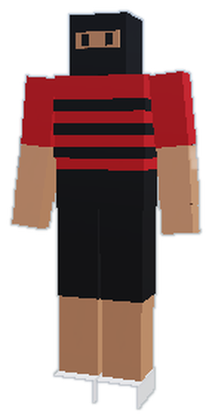
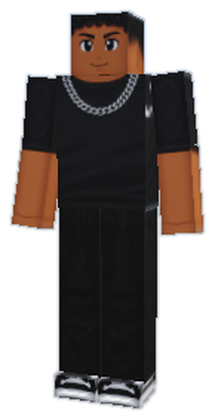
Escada com patamares e guarda-corpo, mapa mais leve, armas leves de longe e skin nova na roupa Rubro
- Escada externa em zigue-zague com patamar no fim de cada lance (o próximo sai dele) e
  guarda-corpo dos dois lados de cada lance e em volta de cada patamar, com colisão.
  Teste SO_ESCADA_EXTERNA: sobe até a laje e não cai empurrando para fora nas pontas.
- Armas: versão de longe por agrupamento de vértices (o simplificador antigo travava nas
  costuras e não reduzia); a da mão e as de perto continuam detalhadas
- Mapa: na beirada do morro só 35% das casas ficam (277 de 384); o resto do mapa não muda
- Grades das escadas só aparecem de perto (a colisão vale sempre)
- Medido no nível Leve, na partida: 425 mil -> 268 mil triângulos; malhas 114 -> 104 MB
  (menu 103 -> 91 MB, já contando as grades novas)
- Skin nova (cabelo cacheado, camiseta preta com corrente) na roupa Rubro, montada da folha
  enviada (tools/montar_skin.py + docs/skins/receitas/folha_roblox_rotulada.json)
- Versão 0.12

Claude-Session: https://claude.ai/code/session_012EZ5KKTFERXFdQTAkopxx1

diff --git a/src/procgen/Buildings.cpp b/src/procgen/Buildings.cpp
@@ -511,6 +511,64 @@ void railing(Geo& g, float x0, float z0, float x1, float z1, float y, float h) {
     g.collider({mn.x - 0.05f, y, mn.y - 0.05f}, {mx.x - mn.x + 0.1f, h, mx.y - mn.y + 0.1f});
 }
 
+// Guarda-corpo ao longo de um lance (na lateral x), acompanhando os degraus, com colisão em cada degrau
+static void stairsSideRail(Geo& g, float x, float zs, float dir, float run, float rise) {
+    DetailScope ds(g);  // a grade só aparece de perto (a colisão vale sempre)
+    MeshBuilder& m = g[Mat::GunMetal];
+    m.color = glm::vec4(1.f); m.uvTile = {0.f, 0.f};
+    const int n = std::max(4, int(rise / 0.18f + 0.5f));
+    const float H = 0.95f;
+    for (int i = 0; i < n; ++i) {
+        float za = zs + dir * run * i / n, zb = zs + dir * run * (i + 1) / n;
+        float y = rise * (i + 1) / n, lo = std::min(za, zb), hi = std::max(za, zb);
+        g.collider({x - 0.04f, y, lo}, {0.08f, H + 0.1f, hi - lo + 0.002f});
+        if (i % 3 == 0 || i == n - 1) m.box({x - 0.025f, y, (lo + hi) * 0.5f - 0.025f}, {0.05f, H, 0.05f});
+    }
+    // barra de cima inclinada
+    glm::vec3 a(x, rise / n + H, zs + dir * run * 0.5f / n), b(x, rise + H, zs + dir * run * (n - 0.5f) / n);
+    glm::vec3 c = (a + b) * 0.5f, dv = b - a;
+    glm::mat4 keep = m.xf;
+    m.xf = keep * glm::translate(glm::mat4(1.f), c) * glm::rotate(glm::mat4(1.f), std::atan2(-dv.y, dv.z), glm::vec3(1, 0, 0));
+    m.boxC({0.f, 0.f, 0.f}, {0.05f, 0.05f, glm::length(dv) + 0.05f});
+    m.xf = keep;
+}
+
+// Escada externa de um andar, pela lateral -X da casa (corredor x0..x0+sw), subindo `rise` no sentido dir a partir
+// da borda z0. Termina num patamar (largura dos dois corredores no zigue-zague) de onde sai o próximo lance, no
+// corredor do lado e no sentido contrário; o lance de um andar de cima começa no patamar do anterior.
+// Proteções: guarda-corpo dos dois lados do lance (o lado da parede não precisa) e em volta do patamar.
+void outsideStairs(Geo& g, const ModuleSpec& s, float w, float d, float rise) {
+    const float sw = s.stairsW, x0 = -w / 2 - sw * float(s.stairsLane + 1);
+    const float dir = s.stairsToFront ? 1.f : -1.f, z0 = s.stairsToFront ? -d / 2 : d / 2;
+    const bool raised = !s.floor;
+    const float L = s.stairsZigzag ? 0.9f : 0.f;               // patamar no fim de cada lance
+    const float startOff = raised && s.stairsZigzag ? L : 0.f;  // começa no patamar do lance de baixo
+    const float zs = z0 + dir * startOff, run = d - startOff - L, zEnd = zs + dir * run;
+    // térreo maciço até o chão; andares de cima só com os degraus (passa gente embaixo)
+    stairsRun(g, Mat::Concrete, x0, sw, 0.f, zs, run, rise, 1e9f, dir, raised);
+    // guarda-corpo dos lados do lance: o de fora sempre (no corredor de dentro, é o lado do outro corredor); no
+    // corredor de fora, também o de dentro (o outro corredor está em outra altura). O lado da parede não precisa.
+    stairsSideRail(g, x0, zs, dir, run, rise);
+    if (s.stairsZigzag && s.stairsLane == 1) stairsSideRail(g, x0 + sw, zs, dir, run, rise);
+    const float H = 0.95f, edge = z0 + dir * d;  // borda da casa onde o lance termina
+    if (s.stairsZigzag) {
+        // patamar: dos dois corredores, do fim do lance até a borda, na altura de cima (laje fina, livre por baixo)
+        const float xa = -w / 2 - 2.f * sw, xb = -w / 2, za = std::min(zEnd, edge), zb = std::max(zEnd, edge);
+        MeshBuilder& c = g[Mat::Concrete];
+        c.color = glm::vec4(1.f); c.uvTile = {1.f, 1.f};
+        const float t = 0.15f;
+        c.box({xa, rise - t, za}, {xb - xa, t, zb - za});
+        g.collider({xa, rise - t, za}, {xb - xa, t, zb - za});
+        // grade do patamar: no lado de fora e na borda (só aparece de perto; a colisão vale sempre)
+        DetailScope ds(g);
+        railing(g, xa, za, xa, zb, rise, H);
+        railing(g, xa, edge + dir * 0.03f, xb, edge + dir * 0.03f, rise, H);
+    } else {
+        DetailScope ds(g);
+        railing(g, x0, zEnd + dir * 0.03f, x0 + sw, zEnd + dir * 0.03f, rise, H);  // batente na ponta de cima
+    }
+}
+
 glm::mat4 wallXf(int side, float w, float d) {  // canto inicial e direção de cada parede (por fora, olhando para ela)
     auto rot = [](float a) { return glm::rotate(glm::mat4(1.f), a, glm::vec3(0, 1, 0)); };
     switch (side) {
@@ -653,19 +711,7 @@ void buildModulePiece(Geo& g, int piece, const ModuleSpec& s, int wallKind) {
             cornerStairs(g, s.stairs, w / 2, -d / 2, w, d, 0.f, s.h, nullptr);
             break;
         case MP_StairsOut: {  // pela lateral direita (-X), de frente para o fundo, até o topo da laje; corrimão do lado de fora
-            const float sw = s.stairsW, x0 = -w / 2 - sw * float(s.stairsLane + 1), rise = top + (s.slab ? kSlabT : 0.f);
-            const float dir = s.stairsToFront ? 1.f : -1.f, z0 = s.stairsToFront ? -d / 2 : d / 2;
-            // térreo maciço até o chão; andares de cima só com os degraus (passa gente embaixo)
-            stairsRun(g, Mat::Concrete, x0, sw, 0.f, z0, d, rise, 1e9f, dir, !s.floor);
-            // corrimão do lado de fora (no corredor de fora); só no meio do lance, as pontas ficam livres para
-            // passar para o lance do lado
-            if (s.stairsLane == 1 || s.stairsW >= 1.f) {
-                MeshBuilder& m = g[Mat::GunMetal];
-                for (int i = 1; i <= 3; ++i) {
-                    float z = z0 + dir * d * i / 4.f, y = rise * i / 4.f;
-                    m.box({x0 - 0.03f, y, z - 0.03f}, {0.05f, 0.95f, 0.05f});
-                }
-            }
+            outsideStairs(g, s, w, d, top + (s.slab ? kSlabT : 0.f));
             break;
         }
         case MP_Porch: {  // varanda coberta (no chão) ou sacada com grade (andar de cima), 2 m à frente

diff --git a/src/engine/World.cpp b/src/engine/World.cpp
@@ -747,9 +747,9 @@ void favelaHouse(Geo& g, Rng& r, float w, float d, int floors, float footLow, bo
     const bool outsideStairs = r.chance(0.5f);
     const bool porchGround = frontOpen && r.chance(0.3f);
     // Escada externa do lado -X. Com mais de um andar: zigue-zague em 2 corredores de 0,9 m (cada andar no outro
-    // corredor e no outro sentido; o último lance chega colado na laje do telhado). Casa estreita demais para
-    // isso: a escada externa só vai até a primeira laje.
-    const bool zigzag = outsideStairs && floors > 1 && w - 1.85f >= 2.4f;
+    // corredor e no outro sentido, com patamar no fim de cada lance; o último lance chega colado na laje do
+    // telhado). Casa estreita ou curta demais para isso: a escada externa só vai até a primeira laje.
+    const bool zigzag = outsideStairs && floors > 1 && w - 1.85f >= 2.4f && d >= 5.f;  // fundo para lance + 2 patamares
     const float lane = zigzag ? 0.9f : 1.f;
     const float stairsBand = outsideStairs ? (zigzag ? 2.f * lane : lane) + 0.05f : 0.f;
     float bw = w - stairsBand;
@@ -789,6 +789,7 @@ void favelaHouse(Geo& g, Rng& r, float w, float d, int floors, float footLow, bo
             const int fromTop = floors - 1 - f;               // o último lance fica no corredor colado na casa
             ms.stairsLane = zigzag ? fromTop % 2 : 0;
             ms.stairsToFront = zigzag && f % 2 == 1;         // lances alternam o sentido
+            ms.stairsZigzag = zigzag;
         } else if (outsideStairs) {
         } else if (bd >= 4.4f && bw >= 3.4f) ms.stairs = SK_Straight;
         ms.porch = f == 0 ? porchGround : (frontOpen && r.chance(0.3f));
@@ -1005,6 +1006,9 @@ void genFavela(Engine* e, Rng& r, glm::vec3& spawn, float& spawnYaw) {
 
     // ---- casas: lotes em grade, becos entre eles ----
     std::vector<std::pair<glm::vec2, glm::vec2>> lots;  // centro, meio tamanho (para os testes)
+    int houseTotal = 0, houseKept = 0;
+    const float kHouseThinFrom = 1.12f;   // a partir daqui (fração do raio da favela) as casas ficam mais raras
+    const unsigned kHouseThinKeep = 35;   // % das casas que ficam nessa faixa
     const float pitchX = 7.6f, pitchZ = 7.2f;
     for (float gz = -94.f; gz < 92.f; gz += pitchZ)
         for (float gx = -98.f; gx < 98.f; gx += pitchX) {
@@ -1045,11 +1049,28 @@ void genFavela(Engine* e, Rng& r, glm::vec3& spawn, float& spawnYaw) {
             float w = yaw == 0.f ? lw : ld, d = yaw == 0.f ? ld : lw;
             bool frontOpen = true;
             glm::vec3 pos(c.x, mx + 0.05f, c.y);
+            // Mapa mais leve: na beirada do morro (longe do miolo onde a partida acontece) só fica parte das casas.
+            // A casa que sai é montada numa peça descartada, para os sorteios (e o resto do mapa) não mudarem; o lote
+            // fica de chão batido (sem cimento). Igual para todo mundo (online: o mapa é o mesmo em todo aparelho).
+            const float edge = favelaEdge(c.x, c.y);
+            uint32_t hh = uint32_t(int(c.x * 10.f)) * 73856093u ^ uint32_t(int(c.y * 10.f)) * 19349663u;
+            hh ^= hh >> 13; hh *= 0x5bd1e995u; hh ^= hh >> 15;
+            const bool keep = edge < kHouseThinFrom || (hh % 100u) < kHouseThinKeep;
+            ++houseTotal;
+            if (!keep) {
+                Geo descarte;
+                descarte.place(pos, yaw);
+                favelaHouse(descarte, r, w, d, floors, mx - mn + 0.05f, frontOpen);
+                lots.push_back({c, hs});
+                continue;
+            }
+            ++houseKept;
             Geo& g = cells.at(pos);
             g.place(pos, yaw);
             favelaHouse(g, r, w, d, floors, mx - mn + 0.05f, frontOpen);
             lots.push_back({c, hs});
         }
+    if (std::getenv("MAPA_DEBUG")) std::printf("  casas: %d de %d\n", houseKept, houseTotal);
 
     // ---- chão cimentado (becos, quintais), com alguns cantos de terra; onde é muito inclinado vira escadinha ----
     {

diff --git a/tools/headless_test.cpp b/tools/headless_test.cpp
@@ -1736,7 +1736,7 @@ int main(int argc, char** argv) {
         for (int f = 0; f < 3; ++f) {
             nlohmann::json m = {{"tipo", "modulo"}, {"largura", W}, {"profundidade", D}, {"altura", 2.7}, {"laje", true},
                                 {"paredes", {"porta", "lisa", "lisa", "lisa"}}, {"escada", "externa"}, {"largura_escada", lane},
-                                {"corredor_escada", (2 - f) % 2}, {"escada_para_frente", f % 2 == 1}};
+                                {"corredor_escada", (2 - f) % 2}, {"escada_para_frente", f % 2 == 1}, {"zigue_zague", true}};
             if (base < 0) m["pos"] = {0, 0, 0}; else m["sobre"] = base;
             base = engine_add_spec(e, m.dump().c_str());
             if (base < 0) { std::printf("  [ERRO] andar %d: %s\n", f, engine_last_error(e)); ++g_fail; }
@@ -1751,18 +1751,25 @@ int main(int argc, char** argv) {
         engine_set_play(e, 1);
         frames(e, 20);
         int etapa = 0;
-        // lances: 0 sobe para o fundo no corredor de dentro; passa de lado para o de fora; 1 sobe para a frente;
-        // passa de lado para o de dentro; 2 sobe para o fundo; vai para a laje (+X)
-        glm::vec3 fim = steer(ch, 700, [&](glm::vec3 p) -> glm::vec2 {
+        // lances com patamar no fim: 0 sobe para o fundo no corredor de dentro; no patamar, força para fora pela
+        // borda (não pode cair); passa para o corredor de fora; 1 sobe para a frente; no patamar passa para o de
+        // dentro; 2 sobe para o fundo; no último patamar força para o lado de fora; vai para a laje (+X)
+        int empurra = 0;
+        float yPonta0 = 1e9f, yPonta2 = 1e9f;
+        glm::vec3 fim = steer(ch, 1100, [&](glm::vec3 p) -> glm::vec2 {
             switch (etapa) {
-                case 0: case 4: if (p.z < -D / 2 + 0.3f) { ++etapa; return {0.f, 0.f}; } return {(xi - p.x) * 3.f, -1.f};
-                case 1: if (p.x < xo + 0.08f) { ++etapa; return {0.f, 0.f}; } return {-1.f, 0.f};
-                case 2: if (p.z > D / 2 - 0.3f) { ++etapa; return {0.f, 0.f}; } return {(xo - p.x) * 3.f, 1.f};
-                case 3: if (p.x > xi - 0.08f) { ++etapa; return {0.f, 0.f}; } return {1.f, 0.f};
+                case 0: case 5: if (p.z < -D / 2 + 0.45f) { ++etapa; empurra = 0; return {0.f, 0.f}; } return {(xi - p.x) * 3.f, -1.f};
+                case 1: yPonta0 = std::min(yPonta0, p.y); if (++empurra > 70) ++etapa; return {0.f, -1.f};
+                case 2: if (p.x < xo + 0.08f) { ++etapa; return {0.f, 0.f}; } return {-1.f, 0.f};
+                case 3: if (p.z > D / 2 - 0.45f) { ++etapa; return {0.f, 0.f}; } return {(xo - p.x) * 3.f, 1.f};
+                case 4: if (p.x > xi - 0.08f) { ++etapa; return {0.f, 0.f}; } return {1.f, 0.f};
+                case 6: yPonta2 = std::min(yPonta2, p.y); if (++empurra > 70) ++etapa; return {-1.f, -0.3f};
                 default: return p.x > 0.f ? glm::vec2(0.f) : glm::vec2(1.f, 0.f);
             }
         });
-        std::printf("  chegou em %.2f %.2f %.2f (etapa %d)\n", fim.x, fim.y, fim.z, etapa);
+        std::printf("  chegou em %.2f %.2f %.2f (etapa %d) · empurrando nas pontas: y mín %.2f e %.2f\n", fim.x, fim.y, fim.z, etapa, yPonta0, yPonta2);
+        if (yPonta0 < 2.4f) { std::printf("  [ERRO] caiu pela ponta do primeiro lance\n"); ++g_fail; }
+        if (yPonta2 < 8.f) { std::printf("  [ERRO] caiu pelo lado no fim do último lance\n"); ++g_fail; }
         save(out, "escada_externa_play.png");
         if (fim.y < 8.f || fim.x < -W / 2) { std::printf("  [ERRO] não chegou na laje do telhado\n"); ++g_fail; }
         engine_destroy(e);

diff --git a/src/assets/GltfLoader.cpp b/src/assets/GltfLoader.cpp
@@ -274,7 +274,12 @@ bool loadGltf(const char* path, LoadContext& ctx, LoadedModel& out) {
     for (size_t mi = 0; mi < model.meshes.size(); ++mi)
         for (size_t pi = 0; pi < model.meshes[mi].primitives.size(); ++pi) {
             const auto& prim = model.meshes[mi].primitives[pi];
-            const std::string cacheKey = std::string(path) + "#" + std::to_string(mi) + "#" + std::to_string(pi);
+            // personagens: a fração do nível; o resto (armas aparecem de perto) no máximo pela metade; a versão de
+            // longe das armas pede a sua (simplifyOverride)
+            const float fracao = renderer.simplifyOverride > 0.f ? renderer.simplifyOverride
+                               : personagem ? renderer.simplify : std::max(renderer.simplify, 0.5f);
+            const std::string cacheKey = std::string(path) + "#" + std::to_string(mi) + "#" + std::to_string(pi) + "#" +
+                                         std::to_string(int(fracao * 1000.f));
             auto cached = renderer.meshCache.find(cacheKey);
             MeshId id = cached != renderer.meshCache.end() ? cached->second : kInvalidId;
             if (id == kInvalidId) {
@@ -285,9 +290,8 @@ bool loadGltf(const char* path, LoadContext& ctx, LoadedModel& out) {
                     for (auto& vx : v)
                         for (int k = 0; k < 4; ++k) vx.joints[k] = uint16_t(vx.joints[k] < remap.size() ? remap[vx.joints[k]] : 0);
                 }
-                // personagens: a fração do nível; o resto (armas aparecem de perto) no máximo pela metade
-                const float fracao = personagem ? renderer.simplify : std::max(renderer.simplify, 0.5f);
-                if (fracao < 1.f) simplifyMesh(v, idx, fracao);
+                if (renderer.simplifyOverride > 0.f) clusterSimplify(v, idx, int(24.f + renderer.simplifyOverride * 200.f));
+                else if (fracao < 1.f) simplifyMesh(v, idx, fracao);
                 id = renderer.createMesh(v.data(), uint32_t(v.size()), idx.data(), uint32_t(idx.size()), skinned);
                 if (id == kInvalidId) continue;
                 renderer.meshCache[cacheKey] = id;

diff --git a/src/procgen/Simplify.cpp b/src/procgen/Simplify.cpp
@@ -186,4 +186,46 @@ void simplifyMesh(std::vector<Vertex>& vs, std::vector<uint32_t>& idx, float rat
     idx.swap(outI);
 }
 
+void clusterSimplify(std::vector<Vertex>& v, std::vector<uint32_t>& idx, int res) {
+    if (v.empty() || idx.size() < 3 || res < 2) return;
+    glm::vec3 mn(1e30f), mx(-1e30f);
+    for (const Vertex& x : v) { mn = glm::min(mn, x.pos); mx = glm::max(mx, x.pos); }
+    const glm::vec3 ext = mx - mn;
+    const float cell = std::max({ext.x, ext.y, ext.z, 1e-6f}) / float(res);
+    std::unordered_map<uint64_t, uint32_t> cluster;
+    std::vector<Vertex> out;
+    std::vector<uint32_t> count, remap(v.size());
+    for (size_t i = 0; i < v.size(); ++i) {
+        const Vertex& x = v[i];
+        glm::uvec3 c = glm::uvec3(glm::clamp((x.pos - mn) / cell, glm::vec3(0.f), glm::vec3(float((1 << 19) - 1))));
+        const glm::vec3 n = x.normal, a = glm::abs(n);
+        const uint64_t bin = a.x >= a.y && a.x >= a.z ? (n.x > 0 ? 0 : 1) : a.y >= a.z ? (n.y > 0 ? 2 : 3) : (n.z > 0 ? 4 : 5);
+        const uint64_t key = uint64_t(c.x) | (uint64_t(c.y) << 19) | (uint64_t(c.z) << 38) | (bin << 57);
+        auto [it, novo] = cluster.try_emplace(key, uint32_t(out.size()));
+        if (novo) { out.push_back(x); count.push_back(1); }
+        else {
+            Vertex& o = out[it->second];
+            o.pos += x.pos;
+            o.normal += x.normal;
+            ++count[it->second];
+        }
+        remap[i] = it->second;
+    }
+    for (size_t k = 0; k < out.size(); ++k) {
+        out[k].pos /= float(count[k]);
+        float l = glm::length(out[k].normal);
+        out[k].normal = l > 1e-6f ? out[k].normal / l : glm::vec3(0, 1, 0);
+    }
+    std::vector<uint32_t> ni;
+    ni.reserve(idx.size() / 4);
+    for (size_t t = 0; t + 2 < idx.size(); t += 3) {
+        uint32_t a = remap[idx[t]], b = remap[idx[t + 1]], c = remap[idx[t + 2]];
+        if (a == b || b == c || a == c) continue;
+        ni.push_back(a); ni.push_back(b); ni.push_back(c);
+    }
+    if (ni.empty()) return;  // sumiu tudo: fica a malha original
+    v.swap(out);
+    idx.swap(ni);
+}
+
 }  // namespace eng

diff --git a/src/engine/Engine.cpp b/src/engine/Engine.cpp
@@ -511,6 +511,7 @@ static Scene::Handle spawnParts(Engine* e, const std::vector<ProtoPart>& parts, 
         auto rh = e->meshRenderers.acquire();
         if (MeshRenderer* mr = e->meshRenderers.get(rh)) {
             mr->mesh = pp.mesh; mr->material = material != kInvalidId ? material : pp.mat; mr->castShadows = true;
+            mr->lodNear = pp.lodNear; mr->lodFar = pp.lodFar;
             c->meshRenderer = mr;
         }
         registerObject(e, ch);
@@ -591,6 +592,19 @@ static Scene::Handle spawnWeaponModel(Engine* e, int kind, const WeaponLook& loo
         if (!modelParts(e, look.file, nullptr, parts, b)) {
             if (e->lastError.empty()) e->lastError = "o arquivo não tem malha para virar arma";
             return {};
+        }
+        // Versão de longe (bem poucos triângulos): a arma da mão e as de perto ficam detalhadas; as dos outros
+        // lutadores, a partir de alguns metros, usam esta (as armas eram mais da metade dos triângulos da partida)
+        static const float kLowFrac[4] = {0.06f, 0.08f, 0.12f, 0.2f}, kLowDist[4] = {4.f, 5.f, 7.f, 12.f};
+        const int nv = std::clamp(e->nivel, 0, 3);
+        std::vector<ProtoPart> low;
+        AABB lb;
+        e->renderer.simplifyOverride = kLowFrac[nv];
+        const bool okLow = modelParts(e, look.file, nullptr, low, lb);
+        e->renderer.simplifyOverride = 0.f;
+        if (okLow && low.size() == parts.size()) {
+            for (ProtoPart& p : parts) p.lodFar = kLowDist[nv];
+            for (ProtoPart& p : low) { p.lodNear = kLowDist[nv]; parts.push_back(p); }
         }
         glm::vec3 ext = b.max - b.min;
         glm::mat4 R(1.f);

diff --git a/src/engine/Project.cpp b/src/engine/Project.cpp
@@ -904,6 +904,7 @@ int createFromSpecJson(Engine* e, const std::string& specJson, std::string* err)
         ms.stairsLane = std::clamp(inum(spec, "corredor_escada", 0), 0, 1);
         ms.stairsW = std::clamp(num(spec, "largura_escada", 1.f), 0.6f, 3.f);
         ms.stairsToFront = flag(spec, "escada_para_frente", false);
+        ms.stairsZigzag = flag(spec, "zigue_zague", false);
         // empilhar: em cima do objeto escolhido (mesma posição e giro); andar de cima não tem piso próprio
         if (auto it = spec.find("sobre"); it != spec.end() && it->is_number()) {
             GameObject* base = rootOf(e, objectById(e, it->get<int>()));

diff --git a/src/procgen/Simplify.h b/src/procgen/Simplify.h
@@ -12,4 +12,8 @@ namespace eng {
 // Devolve os triângulos que sobraram; os vértices sem uso saem de v.
 void simplifyMesh(std::vector<Vertex>& v, std::vector<uint32_t>& idx, float ratio, float maxErro = 0.012f);
 
+// Versão de longe (bem grosseira): junta os vértices que caem no mesmo cubinho de uma grade com `res` cubos no lado
+// maior da malha (e com a normal para o mesmo lado). Ignora costuras de textura: serve para o que só aparece longe.
+void clusterSimplify(std::vector<Vertex>& v, std::vector<uint32_t>& idx, int res);
+
 }  // namespace eng

diff --git a/src/render/Renderer.h b/src/render/Renderer.h
@@ -101,6 +101,7 @@ public:
     std::map<std::string, MeshId> meshCache;
     // fração dos triângulos que fica nos modelos carregados (qualidades leves < 1)
     float simplify = 1.f;
+    float simplifyOverride = 0.f;  // > 0: fração de triângulos dos próximos modelos (versão de longe das armas)
     // resolução da sombra e do reflexo do ambiente (definidas antes do init; Ultra: 2048 e 256)
     int shadowSize = kShadowMapSize;
     int envSize = kEnvSize;

diff --git a/src/procgen/Buildings.h b/src/procgen/Buildings.h
@@ -155,6 +155,7 @@ struct ModuleSpec {
     float stairsW = 1.f;
     int stairsLane = 0;
     bool stairsToFront = false;
+    bool stairsZigzag = false;  // escada em zigue-zague: patamar no fim de cada lance (o próximo sai dele)
 };
 // Altura do topo do módulo (onde o próximo andar começa)
 float moduleTop(const ModuleSpec& s);
